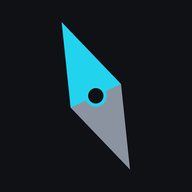
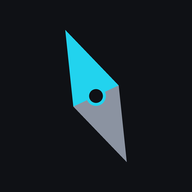
カレンダーの押し出し未解消+アプリアイコンのAndroid余白を修正
- カレンダー月表示: 選択日の詳細(cal-day-detail)がグリッドより上に
  あったのを見落としており、件数が多いとグリッドが下に押し出される
  問題が直っていなかった。HTML側の並びをグリッド→詳細の順に入れ替え、
  グリッドが常に画面上部に固定表示されるように修正
- アプリアイコン: Chromeの「インストール」プレビューでは正しく見えるのに
  実際にホーム画面へ追加すると余白が生まれる件を調査。原因はmanifest.json
  にmaskable purposeの指定がなく、Androidが非maskableアイコンとして
  独自に余白+背景を足して adaptive icon 化していたため。
  - manifest.jsonの各iconに"purpose": "any maskable"を追加
  - 円形マスクでも針の先端が欠けないよう、拡大率を78%→70%に調整
    (元画像から再生成、二重リサイズによる劣化を回避)

diff --git a/static/index.html b/static/index.html
@@ -378,13 +378,6 @@
   <section id="tab-calendar" class="tab-panel">
     <h2>予定</h2>
 
-    <div class="cal-day-detail">
-      <h3 id="cal-detail-title">日付を選んでください</h3>
-      <ul id="cal-event-list" class="list"></ul>
-      <h3>期限のタスク</h3>
-      <ul id="cal-todo-list" class="list"></ul>
-    </div>
-
     <div class="cal-board">
       <div class="cal-view-toggle" id="cal-view-toggle">
         <button type="button" class="cal-view-btn active" data-view="month">月</button>
@@ -409,6 +402,13 @@
           </div>
         </div>
       </div>
+    </div>
+
+    <div class="cal-day-detail">
+      <h3 id="cal-detail-title">日付を選んでください</h3>
+      <ul id="cal-event-list" class="list"></ul>
+      <h3>期限のタスク</h3>
+      <ul id="cal-todo-list" class="list"></ul>
     </div>
 
     <button type="button" id="event-fab" class="fab" aria-label="予定を追加">+</button>

diff --git a/static/style.css b/static/style.css
@@ -1485,11 +1485,13 @@ body.focus-open #tabbar {
 
 /* ---------- calendar (events) ---------- */
 
-/* 開いてすぐ「今日の予定」が見えるよう、月表示グリッドより上に配置している */
 .cal-day-detail h3:first-child {
   margin-top: 4px;
 }
 
+/* 以前はcal-day-detail(選択日の予定+期限タスク)をこのcal-board(月グリッド)より上に
+   置いていたが、件数が増えるとグリッド自体が下に押し出されてしまうため、2026-08-16に
+   HTML側の並び順をグリッド→詳細の順に入れ替えた。グリッドは常に画面上部に固定表示される。 */
 .cal-board {
   background: var(--card);
   border: 1px solid var(--border);
